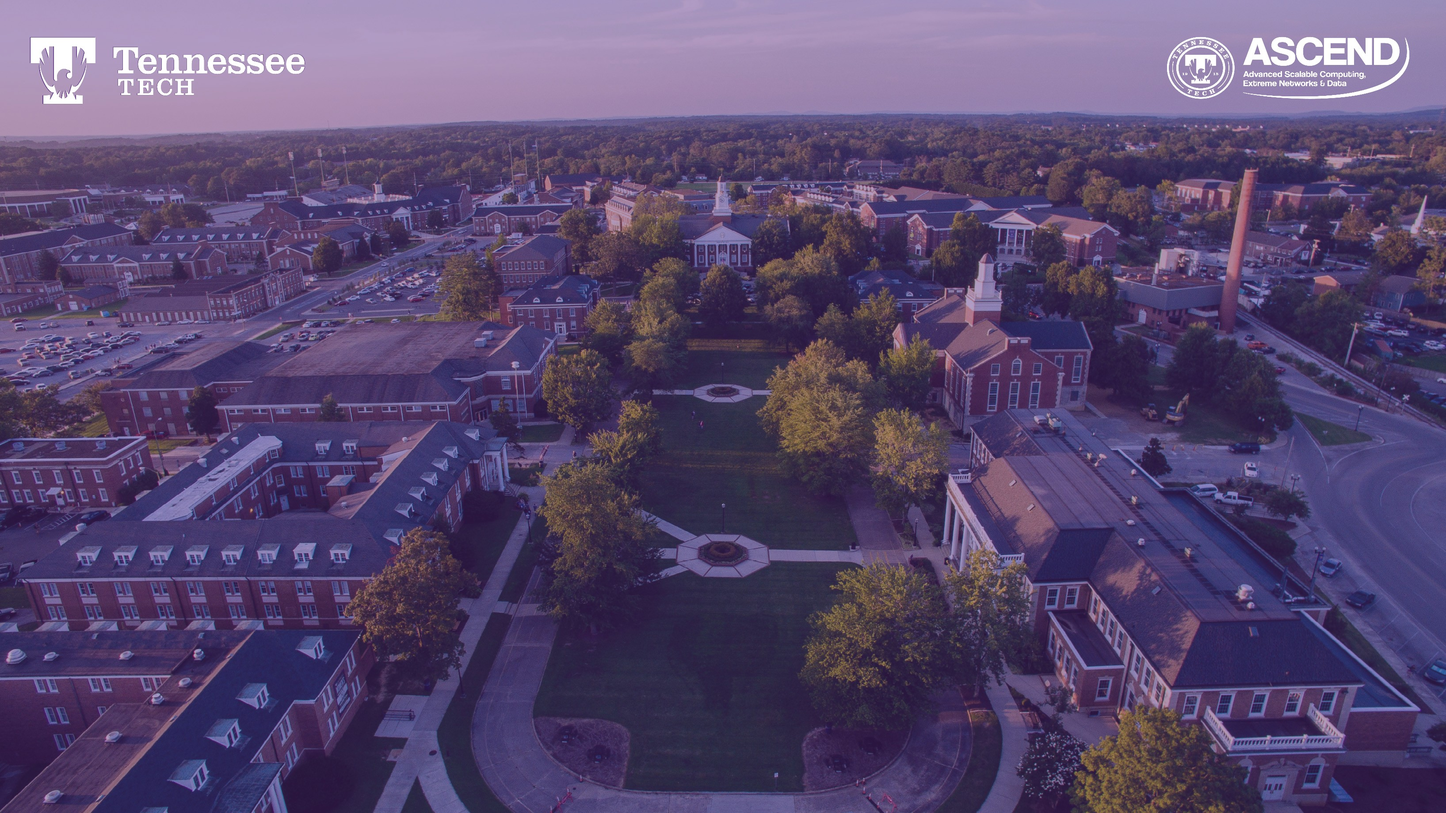
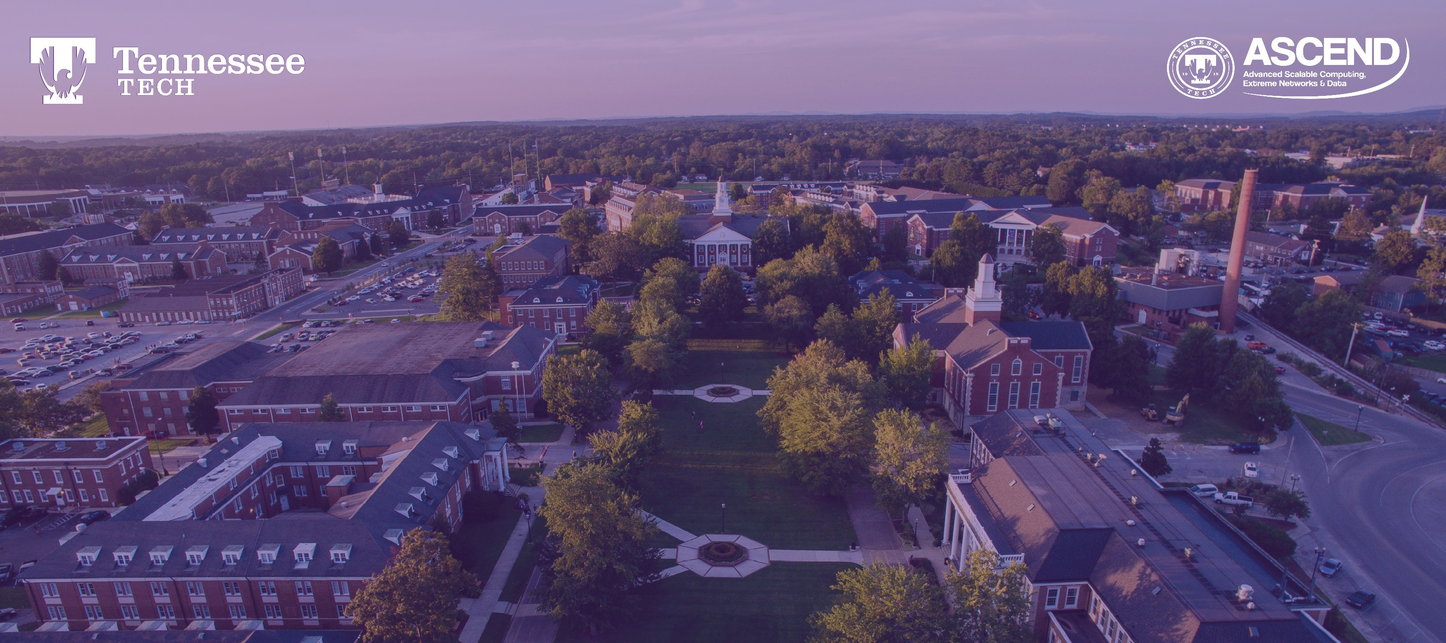
modify layout and add staff sections

diff --git a/_includes/team.html b/_includes/team.html
@@ -1,0 +1,38 @@
+<!-- Team -->
+<section class="bg-light page-section" id="{{ site.data.sitetext[site.locale].team.section | default: team }}">
+<div class="container">
+  <div class="row">
+	<div class="col-lg-12 text-center">
+	  <h2 class="section-heading text-uppercase">{{ site.data.sitetext[site.locale].team.title }}</h2>
+	</div>
+  </div>
+  
+  {% for team in site.data.sitetext[site.locale].team.people %}
+	<div class="row">
+		<div class="col-lg-12 text-center">
+		  <h3 class="section-heading text-muted">{{ team.category }}</h3>
+		</div>
+	</div>
+	
+        <div class="row justify-content-center">
+		{% for person in team.members %}
+		<div class="col-sm-4">
+			<div class="team-member">
+				<img class="mx-auto rounded-circle" src="assets/img/team/{{ person.name }}.jpg" alt="Picture of {{ person.name }}">
+				<h4>{{ person.name }}</h4>
+				<p class="text-muted">{{ person.role }}</p>
+				<ul class="list-inline social-buttons">
+				  <li class="list-inline-item">
+					<a href="mailto:{{ person.email }}">
+					  <i class="fas fa-envelope"></i>
+					</a>
+				  </li>
+				</ul>
+			</div>
+		</div>
+		{% endfor %}
+       </div>
+  {% endfor %}
+</div>
+</section>
+<!-- End Team -->

diff --git a/_layouts/default.html b/_layouts/default.html
@@ -1,0 +1,27 @@
+<!DOCTYPE html>
+<html>
+
+  {% include head.html %}
+
+  <body id="page-top">
+
+      {{ content }}
+
+	  {% include footer.html %}
+
+	  <!-- Bootstrap core JavaScript -->
+	  <script src="assets/js/jquery.min.js"></script>
+	  <script src="assets/js/bootstrap.bundle.min.js"></script>
+
+	  <!-- Plugin JavaScript -->
+	  <script src="assets/js/jquery.easing.min.js"></script>
+
+	  <!-- Contact form JavaScript -->
+	  <script src="assets/js/jqBootstrapValidation.js"></script>
+	  <script src="assets/js/contact_me.js"></script>
+
+	  <!-- Custom scripts for this template -->
+	  <script src="assets/js/agency.min.js"></script>
+
+  </body>
+</html>

diff --git a/_includes/footer.html b/_includes/footer.html
@@ -1,0 +1,11 @@
+  <!-- Footer -->
+  <footer class="footer" style="background-color:">
+    <div class="container">
+      <div class="row align-items-center">
+        <div class="col-md-12">
+          <p class="copyright">Copyright &copy; {{ site.title }} {{ 'now' | date: "%Y" }}</p>
+        </div>
+      </div>
+    </div>
+  </footer>
+  <!-- End Footer -->

diff --git a/_layouts/home.html b/_layouts/home.html
@@ -1,0 +1,9 @@
+---
+layout: default
+---
+{% include navheader.html %}
+
+{% include about.html %}
+{% include services.html %}
+{% include portfolio_grid.html %}
+{% include team.html %}

diff --git a/_layouts/page.html b/_layouts/page.html
@@ -1,0 +1,8 @@
+---
+layout: default
+---
+{% include nav.html %}
+
+<div class="container" id="pagecontainer">
+{{ content }}
+</div>
